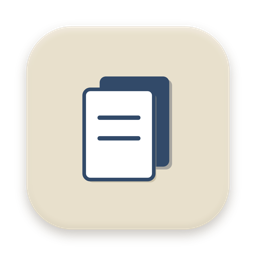
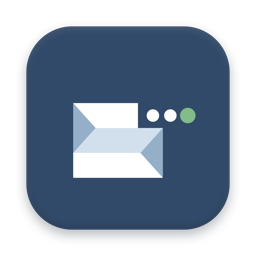
Rebrand: switchback mark + Instrument Sans across the site
Modern sans identity: headings, wordmark and UI move from EB Garamond to
Instrument Sans (tight tracking, 650 weight); the serif remains only on the
mock cards' manuscript titles, mirroring the app. New switchback logo in nav
and favicon/og icon (folded paper strip unfolding into the dotted trail).

diff --git a/index.html b/index.html
@@ -12,13 +12,13 @@
 <link rel="apple-touch-icon" href="icon.png">
 <link rel="preconnect" href="https://fonts.googleapis.com">
 <link rel="preconnect" href="https://fonts.gstatic.com" crossorigin>
-<link href="https://fonts.googleapis.com/css2?family=EB+Garamond:ital,wght@0,500;0,600;1,500&family=IBM+Plex+Sans:wght@400;500;600&family=IBM+Plex+Mono:wght@400&display=swap" rel="stylesheet">
+<link href="https://fonts.googleapis.com/css2?family=Instrument+Sans:wght@400..700&family=EB+Garamond:wght@500&family=IBM+Plex+Mono:wght@400&display=swap" rel="stylesheet">
 <style>
   :root{
     --paper:#f3f5f8; --card:#ffffff; --ink:#16130d; --blue:#2a4b6b; --blue-deep:#1e3852;
     --slate:#55606e; --faint:#8b95a3; --line:#e2e7ee; --line-strong:#d2d9e3;
     --green:#4a8c5a; --green-ink:#3a6b45; --red:#b8503f; --red-ink:#9c3a2c; --red-bg:#f5e6e1;
-    --serif:'EB Garamond',Georgia,serif; --sans:'IBM Plex Sans',system-ui,sans-serif; --mono:'IBM Plex Mono',ui-monospace,monospace;
+    --serif:'EB Garamond',Georgia,serif; --sans:'Instrument Sans',system-ui,sans-serif; --mono:'IBM Plex Mono',ui-monospace,monospace;
   }
   *{box-sizing:border-box}
   html{scroll-behavior:smooth}
@@ -31,7 +31,7 @@
   .nav-in{display:flex;align-items:center;justify-content:space-between;padding:14px 28px;max-width:1060px;margin:0 auto}
   .brand{display:flex;align-items:center;gap:11px;text-decoration:none;color:var(--ink)}
   .brand svg{width:30px;height:30px}
-  .brand b{font-family:var(--serif);font-weight:600;font-size:21px;letter-spacing:0}
+  .brand b{font-family:var(--sans);font-weight:700;font-size:18.5px;letter-spacing:-.02em}
   .brand b em{font-style:normal;color:var(--blue)}
   .nav-links{display:flex;gap:26px;align-items:center;font-size:14px}
   .nav-links a{color:var(--slate);text-decoration:none;font-weight:500}
@@ -45,7 +45,7 @@
   .hero{display:grid;grid-template-columns:1.05fr .95fr;gap:56px;align-items:center}
   @media(max-width:860px){.hero{grid-template-columns:1fr;gap:44px}}
   .eyebrow{font-size:12.5px;font-weight:600;letter-spacing:.1em;text-transform:uppercase;color:var(--blue)}
-  h1{font-family:var(--serif);font-weight:500;font-size:clamp(38px,5.2vw,56px);line-height:1.08;margin:14px 0 18px;letter-spacing:-.005em;text-wrap:balance}
+  h1{font-family:var(--sans);font-weight:650;font-size:clamp(36px,4.8vw,52px);line-height:1.05;margin:14px 0 18px;letter-spacing:-.03em;text-wrap:balance}
   .sub{font-size:17.5px;color:var(--slate);max-width:34em;margin:0 0 30px}
   .dl-row{display:flex;gap:12px;flex-wrap:wrap;align-items:center}
   .dl{display:inline-flex;flex-direction:column;align-items:flex-start;gap:1px;text-decoration:none;
@@ -87,13 +87,13 @@
   /* ---- sections ---- */
   section{padding:72px 0}
   section.tint{background:var(--card);border-top:1px solid var(--line);border-bottom:1px solid var(--line)}
-  h2{font-family:var(--serif);font-weight:500;font-size:clamp(28px,3.4vw,36px);line-height:1.15;margin:0 0 10px;letter-spacing:-.004em;text-wrap:balance}
+  h2{font-family:var(--sans);font-weight:650;font-size:clamp(26px,3.2vw,33px);line-height:1.12;margin:0 0 10px;letter-spacing:-.025em;text-wrap:balance}
   .lede{color:var(--slate);max-width:38em;margin:0 0 40px;font-size:16.5px}
 
   /* how it works */
   .steps{display:grid;grid-template-columns:repeat(3,1fr);gap:28px}
   @media(max-width:760px){.steps{grid-template-columns:1fr}}
-  .step .num{font-family:var(--serif);font-size:34px;color:var(--blue);font-weight:500}
+  .step .num{font-family:var(--sans);font-size:26px;color:var(--blue);font-weight:700;letter-spacing:-.02em}
   .step h3{font-size:16.5px;margin:6px 0 6px;font-weight:600}
   .step p{margin:0;font-size:14.5px;color:var(--slate)}
 
@@ -104,7 +104,7 @@
   .feat{background:var(--card);border:1px solid var(--line);border-radius:14px;padding:22px 22px 20px}
   section.tint .feat{background:var(--paper)}
   .feat .tag{font-size:11px;font-weight:600;letter-spacing:.08em;text-transform:uppercase;color:var(--blue)}
-  .feat h3{font-family:var(--serif);font-weight:500;font-size:20px;margin:8px 0 7px}
+  .feat h3{font-family:var(--sans);font-weight:600;font-size:16.5px;margin:8px 0 7px;letter-spacing:-.01em}
   .feat p{margin:0;font-size:14px;color:var(--slate);line-height:1.55}
   .also{margin-top:26px;font-size:13.5px;color:var(--faint)}
 
@@ -142,11 +142,15 @@
 <nav>
   <div class="nav-in">
     <a class="brand" href="#top" aria-label="Paper Trail">
-      <svg viewBox="0 0 58 58" fill="none" stroke="#2a4b6b" stroke-linejoin="round" aria-hidden="true">
-        <rect x="18" y="9" width="27" height="35" fill="#2a4b6b" stroke-width="1.8"/>
-        <rect x="12" y="14" width="27" height="35" fill="#ffffff" stroke-width="1.8"/>
-        <line x1="18" y1="25" x2="33" y2="25" stroke-width="1.5"/>
-        <line x1="18" y1="33" x2="33" y2="33" stroke-width="1.5"/>
+      <svg viewBox="0 0 64 64" aria-hidden="true">
+        <rect x="10" y="42" width="36" height="10" fill="#2a4b6b"/>
+        <rect x="10" y="32" width="36" height="10" fill="#35577a"/>
+        <rect x="10" y="22" width="26" height="10" fill="#2a4b6b"/>
+        <polygon points="46,32 46,52 37,42" fill="#1e3852"/>
+        <polygon points="10,22 10,42 19,32" fill="#1e3852"/>
+        <circle cx="42" cy="27" r="2.5" fill="#2a4b6b"/>
+        <circle cx="49" cy="27" r="2.5" fill="#2a4b6b"/>
+        <circle cx="56" cy="27" r="3.1" fill="#4a8c5a"/>
       </svg>
       <b>Paper <em>Trail</em></b>
     </a>

diff --git a/privacy.html b/privacy.html
@@ -8,12 +8,12 @@
 <link rel="icon" type="image/png" href="icon.png">
 <link rel="preconnect" href="https://fonts.googleapis.com">
 <link rel="preconnect" href="https://fonts.gstatic.com" crossorigin>
-<link href="https://fonts.googleapis.com/css2?family=EB+Garamond:wght@500;600&family=IBM+Plex+Sans:wght@400;500;600&family=IBM+Plex+Mono:wght@400&display=swap" rel="stylesheet">
+<link href="https://fonts.googleapis.com/css2?family=Instrument+Sans:wght@400..700&family=IBM+Plex+Mono:wght@400&display=swap" rel="stylesheet">
 <style>
   :root{
     --paper:#f3f5f8; --card:#ffffff; --ink:#16130d; --blue:#2a4b6b; --blue-deep:#1e3852;
     --slate:#55606e; --faint:#8b95a3; --line:#e2e7ee;
-    --serif:'EB Garamond',Georgia,serif; --sans:'IBM Plex Sans',system-ui,sans-serif; --mono:'IBM Plex Mono',ui-monospace,monospace;
+    --serif:'EB Garamond',Georgia,serif; --sans:'Instrument Sans',system-ui,sans-serif; --mono:'IBM Plex Mono',ui-monospace,monospace;
   }
   *{box-sizing:border-box}
   body{margin:0;background:var(--paper);color:var(--ink);font-family:var(--sans);font-size:16px;line-height:1.65;-webkit-font-smoothing:antialiased}
@@ -22,13 +22,13 @@
   .nav-in{display:flex;align-items:center;justify-content:space-between;padding:14px 28px;max-width:820px;margin:0 auto}
   .brand{display:flex;align-items:center;gap:11px;text-decoration:none;color:var(--ink)}
   .brand svg{width:28px;height:28px}
-  .brand b{font-family:var(--serif);font-weight:600;font-size:20px}
+  .brand b{font-family:var(--sans);font-weight:700;font-size:17.5px;letter-spacing:-.02em}
   .brand b em{font-style:normal;color:var(--blue)}
   .nav-in a.back{font-size:14px;color:var(--slate);text-decoration:none;font-weight:500}
   main{max-width:820px;margin:0 auto;padding:56px 28px 80px}
-  h1{font-family:var(--serif);font-weight:500;font-size:clamp(32px,4.5vw,42px);line-height:1.12;margin:0 0 6px}
+  h1{font-family:var(--sans);font-weight:650;font-size:clamp(30px,4.2vw,38px);line-height:1.1;letter-spacing:-.025em;margin:0 0 6px}
   .dated{color:var(--faint);font-size:13.5px;margin:0 0 36px}
-  h2{font-family:var(--serif);font-weight:500;font-size:25px;margin:44px 0 10px}
+  h2{font-family:var(--sans);font-weight:650;font-size:21px;letter-spacing:-.015em;margin:44px 0 10px}
   p,li{color:#2c3440;font-size:15.5px}
   ul{padding-left:22px}
   li{margin-bottom:8px}
@@ -45,11 +45,15 @@
 <nav>
   <div class="nav-in">
     <a class="brand" href="./" aria-label="Paper Trail">
-      <svg viewBox="0 0 58 58" fill="none" stroke="#2a4b6b" stroke-linejoin="round" aria-hidden="true">
-        <rect x="18" y="9" width="27" height="35" fill="#2a4b6b" stroke-width="1.8"/>
-        <rect x="12" y="14" width="27" height="35" fill="#ffffff" stroke-width="1.8"/>
-        <line x1="18" y1="25" x2="33" y2="25" stroke-width="1.5"/>
-        <line x1="18" y1="33" x2="33" y2="33" stroke-width="1.5"/>
+      <svg viewBox="0 0 64 64" aria-hidden="true">
+        <rect x="10" y="42" width="36" height="10" fill="#2a4b6b"/>
+        <rect x="10" y="32" width="36" height="10" fill="#35577a"/>
+        <rect x="10" y="22" width="26" height="10" fill="#2a4b6b"/>
+        <polygon points="46,32 46,52 37,42" fill="#1e3852"/>
+        <polygon points="10,22 10,42 19,32" fill="#1e3852"/>
+        <circle cx="42" cy="27" r="2.5" fill="#2a4b6b"/>
+        <circle cx="49" cy="27" r="2.5" fill="#2a4b6b"/>
+        <circle cx="56" cy="27" r="3.1" fill="#4a8c5a"/>
       </svg>
       <b>Paper <em>Trail</em></b>
     </a>
